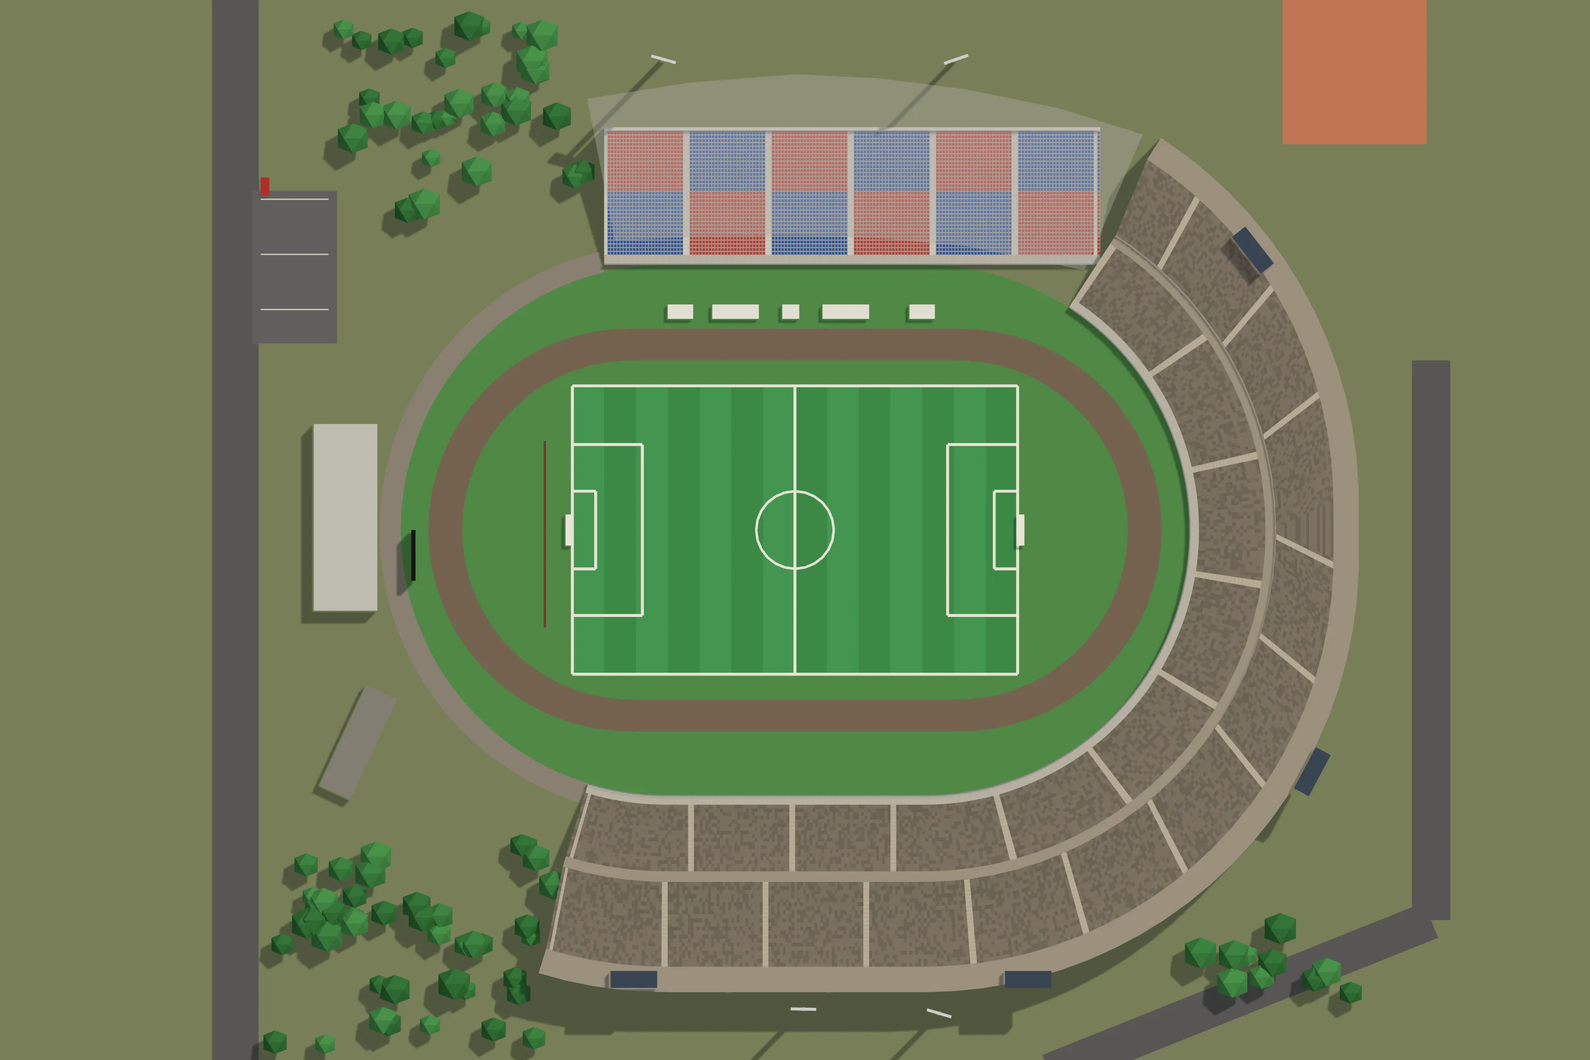
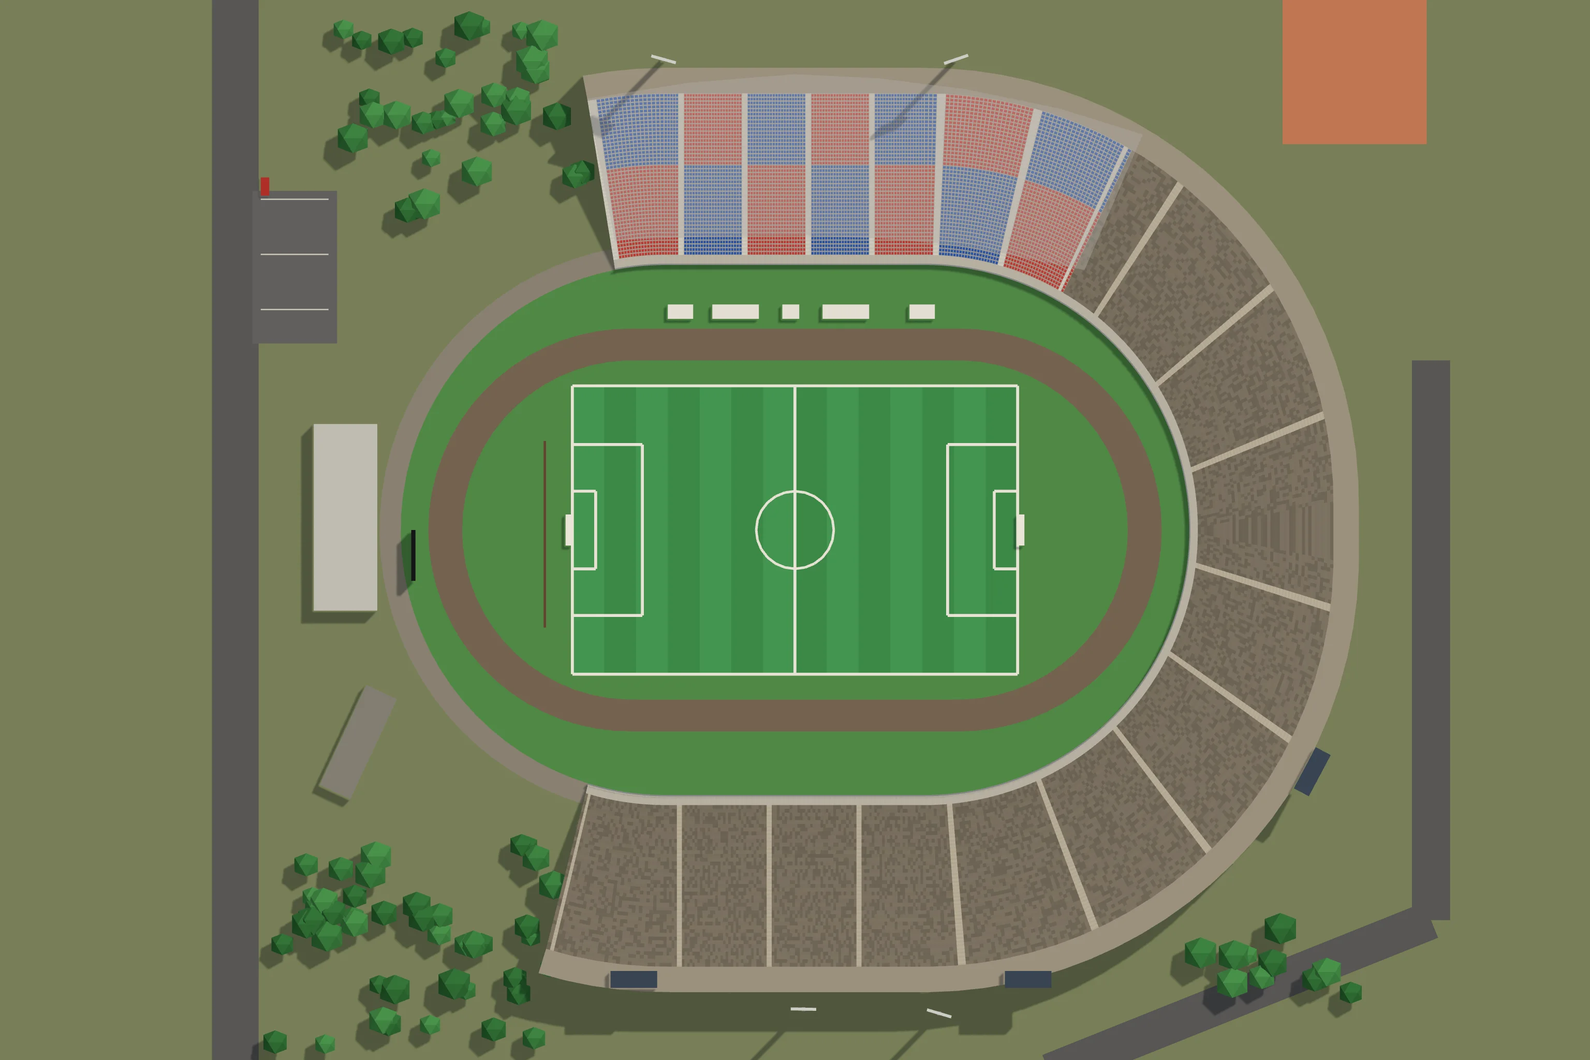
Estádio do Café: uma ferradura só, de um lance, com a coberta como trecho dela
Claude-Session: https://claude.ai/code/session_019hwwMAyyP7ZAvyq6wYTetr

diff --git a/cenario3d/dados/estadios_cenas.js b/cenario3d/dados/estadios_cenas.js
@@ -4898,8 +4898,8 @@ window.__ESTADIOS = {
    "visitante": 3
   },
   "foto": {
-   "imagem": "img/cenas/estadio_do_cafe.webp?v=dca85ef4",
-   "mascara": "384;384;384;384;384;384;384;384;384;384;384;384;384;384;384;384;384;384;384;384;384;384;384;384;384;384;384;384;384;384;384;123,180,81;123,179,82;124,177,83;125,175,84;125,174,85;126,171,87;127,169,88;128,167,89;128,166,90;129,164,91;130,162,92;131,161,92;131,162,91;132,162,90;133,162,89;133,163,88;134,163,87;135,163,86;136,163,85;136,164,84;137,164,83;138,164,82;138,165,81;139,165,80;140,164,80;141,164,79;141,165,78;142,165,77;143,164,77;143,165,76;141,2,1,125,3,37,75;138,5,2,122,6,37,74;136,8,127,39,74;133,12,125,41,73;131,14,124,43,72;129,12,127,44,72;127,11,129,46,71;125,11,129,48,71;124,10,130,50,70;122,10,131,51,70;121,9,132,53,69;119,9,132,56,68;118,8,133,57,68;117,8,134,58,67;115,8,138,56,67;114,8,140,56,66;113,8,142,55,66;112,8,144,54,66;111,7,148,53,65;110,7,150,52,65;109,7,152,52,64;108,7,154,51,64;108,6,156,51,63;107,6,158,50,63;106,6,160,49,63;105,6,162,49,62;104,7,162,49,62;104,6,164,48,62;103,6,166,48,61;102,6,168,47,61;102,6,168,47,61;101,6,170,47,60;101,5,172,46,60;100,6,172,46,60;100,5,174,45,60;99,5,176,45,59;99,5,176,45,59;98,5,178,44,59;98,5,178,44,59;97,5,180,43,59;97,5,180,44,58;96,5,182,43,58;96,5,182,43,58;96,5,182,43,58;95,5,184,42,58;95,5,184,43,57;95,5,184,43,57;94,5,186,42,57;94,5,186,42,57;94,5,186,42,57;94,4,188,41,57;93,5,188,41,57;93,5,188,41,57;93,5,188,41,57;93,4,190,40,57;93,4,190,40,57;92,5,190,40,57;92,5,190,41,56;92,5,190,41,56;92,5,190,41,56;92,4,192,40,56;92,4,192,40,56;92,4,192,40,56;92,4,192,40,56;92,4,192,40,56;92,4,192,40,56;92,4,192,40,56;92,4,192,40,56;92,4,192,40,56;92,4,192,40,56;92,4,192,40,56;92,4,192,40,56;92,4,192,40,56;92,4,192,40,56;92,5,190,41,56;92,5,190,41,56;92,5,190,41,56;92,5,190,40,57;93,4,190,40,57;93,4,190,40,57;93,5,188,41,57;93,5,188,41,57;93,5,188,41,57;94,4,188,41,57;94,5,186,42,57;94,5,186,42,57;94,5,186,42,57;95,5,184,43,57;95,5,184,43,57;95,5,184,42,58;96,5,182,43,58;96,5,182,43,58;96,5,182,43,58;97,5,180,44,58;97,5,180,43,59;98,5,178,44,59;98,5,178,44,59;99,5,176,45,59;99,5,176,45,59;100,5,174,45,60;100,6,172,46,60;101,5,172,46,60;101,6,170,47,60;102,6,168,47,61;102,6,168,47,61;103,6,166,48,61;104,6,164,48,62;104,7,162,49,62;105,6,162,49,62;106,6,160,49,63;107,6,158,50,63;108,6,156,51,63;108,7,154,51,64;109,7,152,52,64;110,7,150,52,65;111,7,148,53,65;112,8,144,54,66;113,8,142,55,66;114,8,140,56,66;115,8,138,56,67;117,8,134,58,67;118,8,132,58,68;119,9,128,60,68;121,9,124,61,69;122,10,120,62,70;124,10,116,64,70;125,11,112,65,71;127,11,108,67,71;129,12,102,69,72;131,14,94,73,72;133,16,86,76,73;136,21,70,83,74;138,172,74;138,171,75;137,171,76;136,171,77;135,172,77;135,171,78;134,171,79;133,171,80;132,172,80;131,172,81;130,172,82;130,171,83;132,168,84;135,164,85;136,162,86;136,161,87;136,160,88;135,160,89;134,160,90;134,159,91;133,159,92;132,159,93;132,157,95;131,157,96;130,157,97;130,156,98;129,155,100;128,155,101;128,153,103;127,153,104;126,152,106;125,152,107;125,150,109;124,149,111;126,145,113;129,140,115;132,135,117;131,134,119;131,131,122;130,130,124;129,128,127;130,124,130;134,116,134;138,108,138;143,98,143;151,82,151;384;384;384;384;384;384;384;384;384;384;384;384;384;384;384;384;384"
+   "imagem": "img/cenas/estadio_do_cafe.webp?v=06e0b6ef",
+   "mascara": "384;384;384;384;384;384;384;384;384;384;384;384;384;384;384;384;384;151,82,151;143,98,143;140,106,138;140,110,134;141,113,130;141,116,127;142,118,124;141,121,122;136,129,119;133,134,117;129,140,115;126,145,113;124,149,111;125,150,109;125,152,107;126,152,106;127,153,104;127,154,103;128,155,101;129,155,100;129,157,98;130,157,97;131,157,96;132,157,95;132,159,93;133,159,92;134,159,91;134,160,90;135,160,89;136,160,88;136,161,87;137,161,86;138,161,85;138,162,84;139,162,83;140,162,82;141,162,81;141,163,80;142,162,80;143,162,79;143,163,78;144,163,77;145,162,77;145,163,76;141,168,75;138,172,74;136,21,70,83,74;133,16,86,76,73;131,14,94,73,72;129,12,102,69,72;127,11,108,67,71;125,11,112,65,71;124,10,116,64,70;122,10,120,62,70;121,9,124,61,69;119,9,128,60,68;118,8,132,58,68;117,8,134,58,67;115,8,138,56,67;114,8,140,56,66;113,8,142,55,66;112,8,144,54,66;111,7,148,53,65;110,7,150,52,65;109,7,152,52,64;108,7,154,51,64;108,6,156,51,63;107,6,158,50,63;106,6,160,49,63;105,6,162,49,62;104,7,162,49,62;104,6,164,48,62;103,6,166,48,61;102,6,168,47,61;102,6,168,47,61;101,6,170,47,60;101,5,172,46,60;100,6,172,46,60;100,5,174,45,60;99,5,176,45,59;99,5,176,45,59;98,5,178,44,59;98,5,178,44,59;97,5,180,43,59;97,5,180,44,58;96,5,182,43,58;96,5,182,43,58;96,5,182,43,58;95,5,184,42,58;95,5,184,43,57;95,5,184,43,57;94,5,186,42,57;94,5,186,42,57;94,5,186,42,57;94,4,188,41,57;93,5,188,41,57;93,5,188,41,57;93,5,188,41,57;93,4,190,40,57;93,4,190,40,57;92,5,190,40,57;92,5,190,41,56;92,5,190,41,56;92,5,190,41,56;92,4,192,40,56;92,4,192,40,56;92,4,192,40,56;92,4,192,40,56;92,4,192,40,56;92,4,192,40,56;92,4,192,40,56;92,4,192,40,56;92,4,192,40,56;92,4,192,40,56;92,4,192,40,56;92,4,192,40,56;92,4,192,40,56;92,4,192,40,56;92,5,190,41,56;92,5,190,41,56;92,5,190,41,56;92,5,190,40,57;93,4,190,40,57;93,4,190,40,57;93,5,188,41,57;93,5,188,41,57;93,5,188,41,57;94,4,188,41,57;94,5,186,42,57;94,5,186,42,57;94,5,186,42,57;95,5,184,43,57;95,5,184,43,57;95,5,184,42,58;96,5,182,43,58;96,5,182,43,58;96,5,182,43,58;97,5,180,44,58;97,5,180,43,59;98,5,178,44,59;98,5,178,44,59;99,5,176,45,59;99,5,176,45,59;100,5,174,45,60;100,6,172,46,60;101,5,172,46,60;101,6,170,47,60;102,6,168,47,61;102,6,168,47,61;103,6,166,48,61;104,6,164,48,62;104,7,162,49,62;105,6,162,49,62;106,6,160,49,63;107,6,158,50,63;108,6,156,51,63;108,7,154,51,64;109,7,152,52,64;110,7,150,52,65;111,7,148,53,65;112,8,144,54,66;113,8,142,55,66;114,8,140,56,66;115,8,138,56,67;117,8,134,58,67;118,8,132,58,68;119,9,128,60,68;121,9,124,61,69;122,10,120,62,70;124,10,116,64,70;125,11,112,65,71;127,11,108,67,71;129,12,102,69,72;131,14,94,73,72;133,16,86,76,73;136,21,70,83,74;138,172,74;138,171,75;137,171,76;136,171,77;135,172,77;135,171,78;134,171,79;133,171,80;132,172,80;131,172,81;130,172,82;130,171,83;129,171,84;128,171,85;127,171,86;126,171,87;126,170,88;125,170,89;124,170,90;123,170,91;122,170,92;121,170,93;121,168,95;120,168,96;119,168,97;118,168,98;117,167,100;117,166,101;116,165,103;115,165,104;117,161,106;119,158,107;121,154,109;124,149,111;126,145,113;129,140,115;132,135,117;131,134,119;131,131,122;130,130,124;129,128,127;130,124,130;134,116,134;138,108,138;143,98,143;151,82,151;384;384;384;384;384;384;384;384;384;384;384;384;384;384;384;384;384"
   },
   "cena": {
    "nome": "Estádio do Café",
@@ -4965,8 +4965,8 @@ window.__ESTADIOS = {
      "rot": "MANDANTE 1º ESCALÃO",
      "lado": "mandante",
      "entrada": "portao_mandante",
-     "x": 1632,
-     "y": 1631,
+     "x": 1635,
+     "y": 1650,
      "jogador": true
     },
     {
@@ -4974,8 +4974,8 @@ window.__ESTADIOS = {
      "rot": "MANDANTE 2º ESCALÃO",
      "lado": "mandante",
      "entrada": "portao_mandante",
-     "x": 2378,
-     "y": 1083
+     "x": 2394,
+     "y": 1084
     },
     {
      "id": "mandante3",
@@ -4983,31 +4983,31 @@ window.__ESTADIOS = {
      "lado": "mandante",
      "entrada": "portao_mandante",
      "x": 1536,
-     "y": 406
+     "y": 360
     },
     {
      "id": "visitante1",
      "rot": "VISITANTE 1º ESCALÃO",
      "lado": "visitante",
      "entrada": "portao_visitante",
-     "x": 1297,
-     "y": 1630
+     "x": 1290,
+     "y": 1649
     },
     {
      "id": "visitante2",
      "rot": "VISITANTE 2º ESCALÃO",
      "lado": "visitante",
      "entrada": "portao_visitante",
-     "x": 1246,
-     "y": 1627
+     "x": 1237,
+     "y": 1645
     },
     {
      "id": "visitante3",
      "rot": "VISITANTE 3º ESCALÃO",
      "lado": "visitante",
      "entrada": "portao_visitante",
-     "x": 1347,
-     "y": 1631
+     "x": 1341,
+     "y": 1650
     }
    ],
    "entradas": [

diff --git a/cenario3d/planta.html b/cenario3d/planta.html
@@ -289,24 +289,24 @@ button:focus-visible, input:focus-visible { outline: 2px solid var(--selecao); o
 
 <script type="module">
 import * as THREE from 'https://cdn.jsdelivr.net/npm/three@0.160.0/build/three.module.min.js';
-import { planoDaCasa, montarCasa, juntarBlocos, lugarDoDecalque, placasDoLote, segmentosDoMuro, carrosDoEstacionamento, portaoDoEstacionamento } from './js/casas3d.js?v=d85ce04ab7';
-import { montarModelos } from './js/modelos3d.js?v=d85ce04ab7';
-import { moldeDaPeca, comTransformador } from './js/props3d.js?v=d85ce04ab7';
-import { ATLAS } from './js/modelos_atlas.js?v=d85ce04ab7';
-import { Construtor, sorteio } from './js/construtor3d.js?v=d85ce04ab7';
-import { gerarProposta, MAPAS, MAPA_DO_PORTE, RUA, LONGE_DO_ESTADIO_M, cisaoDaPraca, VAO_CIDADES_M, PRAIA_A_MAIS } from './js/proposta.js?v=d85ce04ab7';
-import { montarSede, nivelQueCabe } from './js/sede3d.js?v=d85ce04ab7';
-import { onibus as onibusDetalhe, juntar as juntarDetalhe } from './js/detalhe3d.js?v=d85ce04ab7';
-import { montarLoteDeVeraneio, plantaDoLote, festaNoMundo, noMundoDoLote, cenaDaFesta, detalheDaCasaDaFesta } from './js/veraneio3d.js?v=d85ce04ab7';
-import { montarCaravana, cenaDaCaravana } from './js/caravana3d.js?v=d85ce04ab7';
-import { montarEstacao, montarTunel, montarCarro, TREM } from './js/metro3d.js?v=d85ce04ab7';
-import { montarShopping, montarDelegacia, montarPraca, montarIgreja, montarEscola, montarHospital } from './js/equip3d.js?v=d85ce04ab7';
-import { montarEquipAntigo, TIPOS_ANTIGOS } from './js/equip_antigo3d.js?v=d85ce04ab7';
-import { PECAS_PRAIA, montarPecaDaPraia } from './js/praia3d.js?v=d85ce04ab7';
-import { ESPECIES_LP, FLORA_LP, montarArvoreLowpoly, montarAsDez, facesDaArvore, especieLowpolyDe } from './js/arvores_lowpoly.js?v=d85ce04ab7';
-import { plantarMato, montarMato, LONGE_M, DENSIDADE, LADRILHO_M } from './js/mato3d.js?v=d85ce04ab7';
-import { ESTADIOS_JOGO, montarEstadioJogo, glbDoEstadio, cortarEstadio, plantaDoEstadio, modeloDaLotacao, nomeDoLetreiro, nomeComAcento, marcaDoEstadio, BOCAS_DOS_PORTOES, BILHETERIAS_DA_RUA } from './js/estadios3d.js?v=d85ce04ab7';
-import { PECAS_AMBULANTES, montarAmbulante } from './js/ambulantes3d.js?v=d85ce04ab7';
+import { planoDaCasa, montarCasa, juntarBlocos, lugarDoDecalque, placasDoLote, segmentosDoMuro, carrosDoEstacionamento, portaoDoEstacionamento } from './js/casas3d.js?v=85cc32a618';
+import { montarModelos } from './js/modelos3d.js?v=85cc32a618';
+import { moldeDaPeca, comTransformador } from './js/props3d.js?v=85cc32a618';
+import { ATLAS } from './js/modelos_atlas.js?v=85cc32a618';
+import { Construtor, sorteio } from './js/construtor3d.js?v=85cc32a618';
+import { gerarProposta, MAPAS, MAPA_DO_PORTE, RUA, LONGE_DO_ESTADIO_M, cisaoDaPraca, VAO_CIDADES_M, PRAIA_A_MAIS } from './js/proposta.js?v=85cc32a618';
+import { montarSede, nivelQueCabe } from './js/sede3d.js?v=85cc32a618';
+import { onibus as onibusDetalhe, juntar as juntarDetalhe } from './js/detalhe3d.js?v=85cc32a618';
+import { montarLoteDeVeraneio, plantaDoLote, festaNoMundo, noMundoDoLote, cenaDaFesta, detalheDaCasaDaFesta } from './js/veraneio3d.js?v=85cc32a618';
+import { montarCaravana, cenaDaCaravana } from './js/caravana3d.js?v=85cc32a618';
+import { montarEstacao, montarTunel, montarCarro, TREM } from './js/metro3d.js?v=85cc32a618';
+import { montarShopping, montarDelegacia, montarPraca, montarIgreja, montarEscola, montarHospital } from './js/equip3d.js?v=85cc32a618';
+import { montarEquipAntigo, TIPOS_ANTIGOS } from './js/equip_antigo3d.js?v=85cc32a618';
+import { PECAS_PRAIA, montarPecaDaPraia } from './js/praia3d.js?v=85cc32a618';
+import { ESPECIES_LP, FLORA_LP, montarArvoreLowpoly, montarAsDez, facesDaArvore, especieLowpolyDe } from './js/arvores_lowpoly.js?v=85cc32a618';
+import { plantarMato, montarMato, LONGE_M, DENSIDADE, LADRILHO_M } from './js/mato3d.js?v=85cc32a618';
+import { ESTADIOS_JOGO, montarEstadioJogo, glbDoEstadio, cortarEstadio, plantaDoEstadio, modeloDaLotacao, nomeDoLetreiro, nomeComAcento, marcaDoEstadio, BOCAS_DOS_PORTOES, BILHETERIAS_DA_RUA } from './js/estadios3d.js?v=85cc32a618';
+import { PECAS_AMBULANTES, montarAmbulante } from './js/ambulantes3d.js?v=85cc32a618';
 
 const $ = id => document.getElementById(id);
 const aviso = $('aviso');
@@ -323,25 +323,25 @@ function carregarScript(src) {
 }
 window.TO = window.TO || { dados: {} };
 try {
-  await carregarScript('dados/torcidas.js?v=d85ce04ab7');
-  await carregarScript('dados/times.js?v=d85ce04ab7');
-  await carregarScript('dados/cena_estadio.js?v=d85ce04ab7');
-  await carregarScript('dados/cidades.js?v=d85ce04ab7');
-  await carregarScript('dados/estadios.js?v=d85ce04ab7');
-  await carregarScript('dados/escudos.js?v=d85ce04ab7');
+  await carregarScript('dados/torcidas.js?v=85cc32a618');
+  await carregarScript('dados/times.js?v=85cc32a618');
+  await carregarScript('dados/cena_estadio.js?v=85cc32a618');
+  await carregarScript('dados/cidades.js?v=85cc32a618');
+  await carregarScript('dados/estadios.js?v=85cc32a618');
+  await carregarScript('dados/escudos.js?v=85cc32a618');
   /* o manifesto das faixas de verdade (a arte do dono, 29/09/2026): a arquibancada estende a da torcida */
-  await carregarScript('dados/faixas.js?v=d85ce04ab7').catch(() => {});
+  await carregarScript('dados/faixas.js?v=85cc32a618').catch(() => {});
   /* O DOMÍNIO DOS BAIRROS (o dono, 30/09/2026): as sedes repetidas num
      bairro saem espalhadas (nos dados, na carga) e os bares ganham o
      bairro deles — o mesmo módulo do jogo (js/mundo/dominio.js) */
-  await carregarScript('js/dominio.js?v=d85ce04ab7').catch(() => {});
+  await carregarScript('js/dominio.js?v=85cc32a618').catch(() => {});
 } catch (e) {
   aviso.textContent = 'A planta da cidade não carregou (' + e.message + '). Recarregue a página.';
   throw e;
 }
 /* os PNG dos escudos, embutidos (o montar.sh gera): sem o arquivo, o
    caminho vai direto pra img/escudos/ */
-await carregarScript('dados/escudos_embutidos.js?v=d85ce04ab7').catch(() => {});
+await carregarScript('dados/escudos_embutidos.js?v=85cc32a618').catch(() => {});
 const P = TO.dados.plantaEstadio, K = P.CIDADE, M = P.METRO, CALC = K.CALC;
 /* o mapa da vez (o pequeno, o médio ou o grande, montado pra praça
    escolhida): quem monta é usarMapa, lá embaixo */

diff --git a/cenario3d/js/jogo2d.js b/cenario3d/js/jogo2d.js
@@ -17,7 +17,7 @@
    cartão da partida cai perto da hora da bola e nada do que conta o
    placar passa na frente dele.
    ========================================================= */
-import { CASCA } from './jogo_casca.js?v=d85ce04ab7';
+import { CASCA } from './jogo_casca.js?v=85cc32a618';
 
 const carregarScript = src => new Promise((ok, erro) => {
   const s = document.createElement('script');
@@ -31,17 +31,17 @@ async function montarJogo() {
   caixa.innerHTML = CASCA;
   while (caixa.firstChild) document.body.appendChild(caixa.firstChild);
   /* os escudos, as fotos das praças e as bandeiras embutidos (o `IMG()` do jogo procura aqui antes do caminho) */
-  await carregarScript('dados/imagens_jogo.js?v=d85ce04ab7').catch(() => {});
+  await carregarScript('dados/imagens_jogo.js?v=85cc32a618').catch(() => {});
   /* os estádios low-poly das cenas (ferramentas/estadios/assar.js): antes do jogo, que monta as cenas quando carrega */
-  await carregarScript('dados/estadios_cenas.js?v=d85ce04ab7').catch(() => {});
+  await carregarScript('dados/estadios_cenas.js?v=85cc32a618').catch(() => {});
   /* sem o rolo do feed: a tela entre os jogos é o portal */
   window.TO = window.TO || {};
   TO.semFeed = true;
-  await carregarScript('js/jogo.js?v=d85ce04ab7');
-  await carregarScript('js/portal.js?v=d85ce04ab7').catch(err => console.error('o portal não carregou:', err));
+  await carregarScript('js/jogo.js?v=85cc32a618');
+  await carregarScript('js/portal.js?v=85cc32a618').catch(err => console.error('o portal não carregou:', err));
   /* o boneco das cenas de imagem (os dois níveis afinados, em base64) */
-  if (!TO.dados.bonecoPertoGLB) await carregarScript('dados/boneco_glb.js?v=d85ce04ab7').catch(() => {});
-  await import('./bonecos3_global.js?v=d85ce04ab7').catch(err => console.error('o boneco das cenas não carregou:', err));
+  if (!TO.dados.bonecoPertoGLB) await carregarScript('dados/boneco_glb.js?v=85cc32a618').catch(() => {});
+  await import('./bonecos3_global.js?v=85cc32a618').catch(err => console.error('o boneco das cenas não carregou:', err));
   ligar();
 }
 

diff --git a/cenario3d/jogo.html b/cenario3d/jogo.html
@@ -9,16 +9,16 @@
 <link rel="preconnect" href="https://fonts.googleapis.com">
 <link rel="preconnect" href="https://fonts.gstatic.com" crossorigin>
 <link rel="stylesheet" href="https://fonts.googleapis.com/css2?family=Barlow+Semi+Condensed:wght@500;600;700&family=Barlow:wght@400;500;600&family=IBM+Plex+Mono:wght@400;500&display=swap">
-<link rel="stylesheet" href="css/jogo.css?v=d85ce04ab7">
-<link rel="stylesheet" href="css/jogo3d.css?v=d85ce04ab7">
-<link rel="stylesheet" href="css/portal.css?v=d85ce04ab7">
-<link rel="stylesheet" href="css/telas3d.css?v=d85ce04ab7">
+<link rel="stylesheet" href="css/jogo.css?v=85cc32a618">
+<link rel="stylesheet" href="css/jogo3d.css?v=85cc32a618">
+<link rel="stylesheet" href="css/portal.css?v=85cc32a618">
+<link rel="stylesheet" href="css/telas3d.css?v=85cc32a618">
 <style>
 [hidden] { display: none !important; }
 html, body { height: 100%; margin: 0; }
 </style>
 </head>
 <body class="jogo3d">
-<script type="module" src="js/jogo2d.js?v=d85ce04ab7"></script>
+<script type="module" src="js/jogo2d.js?v=85cc32a618"></script>
 </body>
 </html>

diff --git a/cenario3d/js/casas3d.js b/cenario3d/js/casas3d.js
@@ -60,10 +60,10 @@
    avançam (`rec`), e o letreiro, a pixação e a falha de reboco do
    bairro vão pro plano dessa parede, não pro da divisa.
    ========================================================= */
-import { Construtor, METRO, mureta, toldo, arSplit, sorteio } from './construtor3d.js?v=d85ce04ab7';
-import { ATLAS } from './modelos_atlas.js?v=d85ce04ab7';
+import { Construtor, METRO, mureta, toldo, arSplit, sorteio } from './construtor3d.js?v=85cc32a618';
+import { ATLAS } from './modelos_atlas.js?v=85cc32a618';
 /* as lojas do assalto (lojas3d.js): modelos de lote como os outros */
-import { TIPOS_LOJA, REC_LOJA, placaDaLoja } from './lojas3d.js?v=d85ce04ab7';
+import { TIPOS_LOJA, REC_LOJA, placaDaLoja } from './lojas3d.js?v=85cc32a618';
 
 /* o arquivo de cada folha, pro bairro montar o material dele */
 export const arquivoDaFolha = folha => ATLAS[folha].arquivo;

diff --git a/cenario3d/js/ambulantes3d.js b/cenario3d/js/ambulantes3d.js
@@ -27,8 +27,8 @@
    que a planta acha o lugar dela na calçada do estádio. `sol`: o meio e
    o raio da copa ([x, z, r]), que o mapa desenha de perto.
    ========================================================= */
-import { Construtor, noMundo, placasNoMundo, sorteio, esfera, unit } from './construtor3d.js?v=d85ce04ab7';
-import { Lugar, barra, tubo, cilindro, bloco, pano, toro, guardaSol, cadeiraPlastica, isopor, banqueta, CORES_SOL } from './praia3d.js?v=d85ce04ab7';
+import { Construtor, noMundo, placasNoMundo, sorteio, esfera, unit } from './construtor3d.js?v=85cc32a618';
+import { Lugar, barra, tubo, cilindro, bloco, pano, toro, guardaSol, cadeiraPlastica, isopor, banqueta, CORES_SOL } from './praia3d.js?v=85cc32a618';
 
 const AQUI = Lugar();
 const escolha = (rnd, lista) => lista[Math.floor(rnd() * lista.length) % lista.length];

diff --git a/cenario3d/js/praia3d.js b/cenario3d/js/praia3d.js
@@ -36,8 +36,8 @@
    cadeira e a mesa de plástico) servem também os ambulantes da porta do
    estádio (ambulantes3d.js), na mesma folha.
    ========================================================= */
-import { Construtor, METRO, lerp, sub, soma, esc, unit, pv, noMundo, placasNoMundo, sorteio, varrer, esfera } from './construtor3d.js?v=d85ce04ab7';
-import { montarArvoreLowpoly } from './arvores_lowpoly.js?v=d85ce04ab7';
+import { Construtor, METRO, lerp, sub, soma, esc, unit, pv, noMundo, placasNoMundo, sorteio, varrer, esfera } from './construtor3d.js?v=85cc32a618';
+import { montarArvoreLowpoly } from './arvores_lowpoly.js?v=85cc32a618';
 
 const ALTO = [0, 1, 0];
 const escolha = (rnd, lista) => lista[Math.floor(rnd() * lista.length) % lista.length];

diff --git a/cenario3d/js/modelos3d.js b/cenario3d/js/modelos3d.js
@@ -32,8 +32,8 @@
    requadro da janela, toldo, ar-condicionado. O resto é pintura.
    ========================================================= */
 import * as THREE from 'https://cdn.jsdelivr.net/npm/three@0.160.0/build/three.module.min.js';
-import { ATLAS } from './modelos_atlas.js?v=d85ce04ab7';
-import { Construtor, METRO, lerp, sub, soma, esc, pv, pe, unit, recuoPoligono, mureta, toldo, arSplit } from './construtor3d.js?v=d85ce04ab7';
+import { ATLAS } from './modelos_atlas.js?v=85cc32a618';
+import { Construtor, METRO, lerp, sub, soma, esc, pv, pe, unit, recuoPoligono, mureta, toldo, arSplit } from './construtor3d.js?v=85cc32a618';
 
 /* =======================================================
    1. A IGREJA MATRIZ

diff --git a/cenario3d/js/props3d.js b/cenario3d/js/props3d.js
@@ -26,8 +26,8 @@
    poste vira uma haste de longe; o resto, que é miúdo, some.
    ========================================================= */
 import * as THREE from 'https://cdn.jsdelivr.net/npm/three@0.160.0/build/three.module.min.js';
-import { ATLAS } from './modelos_atlas.js?v=d85ce04ab7';
-import { Construtor, METRO, lerp } from './construtor3d.js?v=d85ce04ab7';
+import { ATLAS } from './modelos_atlas.js?v=85cc32a618';
+import { Construtor, METRO, lerp } from './construtor3d.js?v=85cc32a618';
 
 /* as cores que o vértice dá pro que sai claro na folha */
 const COR_CESTO = ['#6aa33a', '#d2b53a', '#3f82ad', '#8b6a3c', '#b8452f'];

diff --git a/cenario3d/js/mato3d.js b/cenario3d/js/mato3d.js
@@ -19,8 +19,8 @@
 
    Tudo em metros; `noMundo` converte. A mesma semente dá o mesmo mato.
    ========================================================= */
-import { METRO, noMundo, sorteio } from './construtor3d.js?v=d85ce04ab7';
-import { facesDaArvore, especieLowpolyDe } from './arvores_lowpoly.js?v=d85ce04ab7';
+import { METRO, noMundo, sorteio } from './construtor3d.js?v=85cc32a618';
+import { facesDaArvore, especieLowpolyDe } from './arvores_lowpoly.js?v=85cc32a618';
 
 /* a área de chão de cada árvore (m²), por lugar */
 export const DENSIDADE = { mata: 70, cerrado: 200, caatinga: 150, sul: 90, praia: 120, cidade: 250 };

diff --git a/cenario3d/js/bonecos3_global.js b/cenario3d/js/bonecos3_global.js
@@ -14,7 +14,7 @@
    DOMContentLoaded: quem usa (a ponte, numa cena aberta pelo jogador)
    chega muito depois.
    ========================================================= */
-import { montar, desenharDeCima, desenharVitrine, limparDeCima, fotoDoTrofeu, fotoDaBriga, fotoDaCena, perdeu, bonecos } from './bonecos3_cena.js?v=d85ce04ab7';
+import { montar, desenharDeCima, desenharVitrine, limparDeCima, fotoDoTrofeu, fotoDaBriga, fotoDaCena, perdeu, bonecos } from './bonecos3_cena.js?v=85cc32a618';
 
 window.TO = window.TO || {};
 TO.diaJogo = TO.diaJogo || {};

diff --git a/cenario3d/js/bonecos3_cena.js b/cenario3d/js/bonecos3_cena.js
@@ -103,7 +103,7 @@
       numa fase sorteada (quem sai junto não sai no mesmo pé).
    ========================================================= */
 import * as THREE from 'https://cdn.jsdelivr.net/npm/three@0.160.0/build/three.module.min.js';
-import { GLTFLoader, SkeletonUtils } from './GLTFLoader.js?v=d85ce04ab7';
+import { GLTFLoader, SkeletonUtils } from './GLTFLoader.js?v=85cc32a618';
 
 /* onde o modelo mora, quando não vem embutido em base64: o detalhado
    (o do Blender) e os dois níveis afinados dele (ferramentas/afinar_boneco.mjs) */
